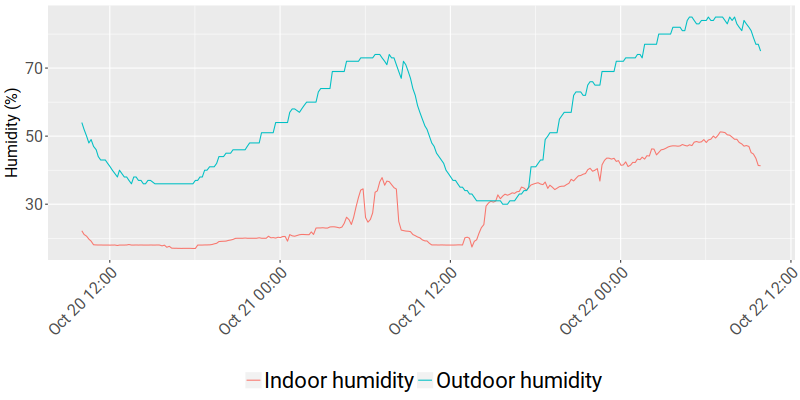
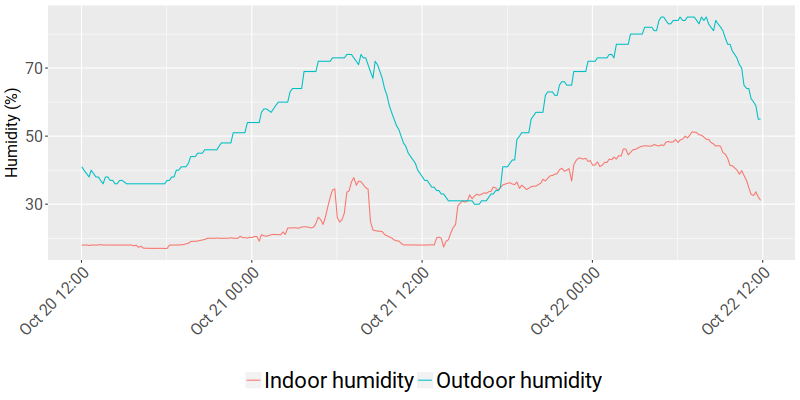
Update live temperature on site

diff --git a/temperature.js b/temperature.js
@@ -1,1 +1,1 @@
-document.write("<h4>Inside Temperature: 21.0°C</h4><h4>Outside Temperature: 14.08°C</h4><h4>Fermenter 1 Temperature: 18.25°C</h4><h4>Fermenter 2 Temperature: 16.75°C</h4><h4>Inside Humidity: 41.31%</h4><h4>Outside Humidity: 75.0%</h4><br>Last update: 2017-10-22 09:51:38");
+document.write("<h4>Inside Temperature: 23.0°C</h4><h4>Outside Temperature: 20.0°C</h4><h4>Fermenter 1 Temperature: 18.69°C</h4><h4>Fermenter 2 Temperature: 17.94°C</h4><h4>Inside Humidity: 31.14%</h4><h4>Outside Humidity: 55.0%</h4><br>Last update: 2017-10-22 11:51:03");
